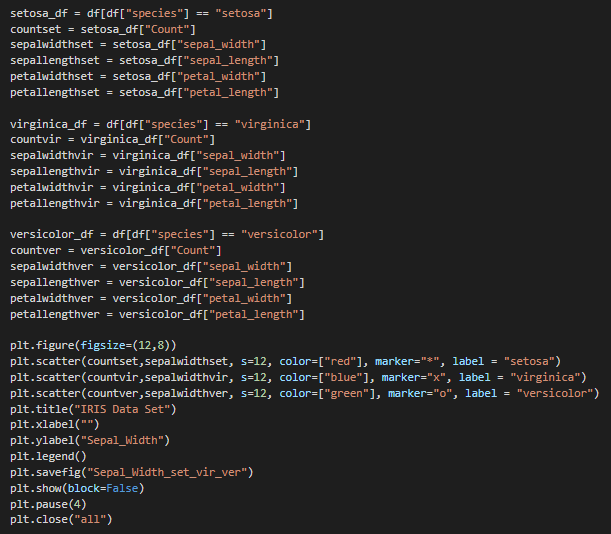
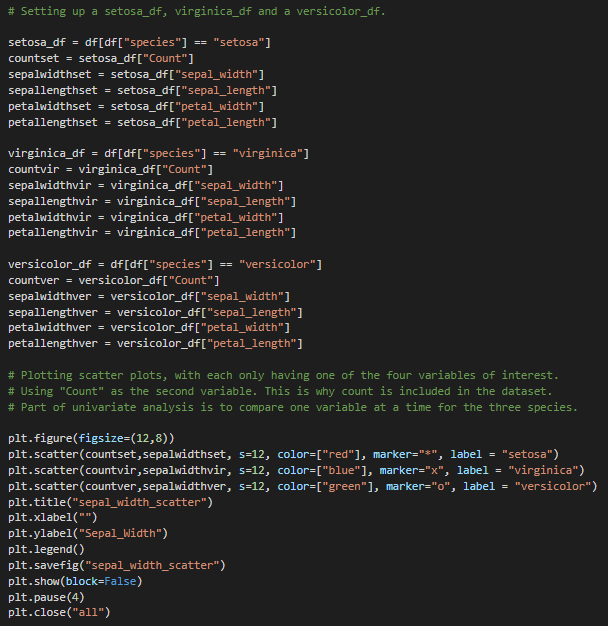
Editing README and tidying up analysis.py file

Changed region(s): [[0.0, 0.0, 1.0, 0.9888]]

diff --git a/analysis.py b/analysis.py
@@ -1,47 +1,87 @@
-import pandas as pd
-import matplotlib.pyplot as plt
-import seaborn as sns
-from scipy import stats
+#import libraries, keeping all together at the top of the code
+import pandas as pd # read CSV file
+import matplotlib.pyplot as plt # for plots
+import seaborn as sns # for pair plots
+from scipy import stats # for normality check
 
+# read in data from file and set up as dataframe
 df = pd.read_csv("Fishers IRIS Data Set.csv")
 
+# defining variables
 sepalwidth = df["sepal_width"]
 sepallength = df["sepal_length"]
 petalwidth = df["petal_width"]
 petallength = df["petal_length"]
 species = df["species"] 
 
-print("IRIS Data Set:")
-print(df.loc[:, df.columns != 'Count'])
-print("")
-print("The number of each species is: ")
-print(df["species"].value_counts())
-print("")
+#=============================================  data check  ==============================================
 
-shapiro_test_sepal_width = (stats.shapiro(sepalwidth))
+# check the dataset to ensure there are 5 variables and 150 rows of data
+print("IRIS Data Set:")
+print("")
+print(df.loc[:, df.columns != 'Count']) # Count is included in the data set for single variable scatter
+# plots. Single variable scatter plots are plotted in univariate analysis, want to ignore "Count" for now.
+print("""
+==========================================================================================================
+""") # The line of === is to make the output easier to read.
+
+print("The number of each species is: ")
+print(df["species"].value_counts()) # counting the number of each species, should be 50 of each.
+# ignoring "Count" as explained above. 
+print("""
+==========================================================================================================
+""")
+
+#===========================================  data summary  ==============================================
+
+# to output a summary of each variable to a single txt file. As explained previously there is a "Count"
+# column in  the data set which has to be ignored here. The method here was to set up a second 
+# dataframe (df2) and only include the columns of interest from the original dataframe (df).
+
+df2 = df[["sepal_width", "sepal_length", "petal_length", "petal_width", "species"]]
+summary = df2.describe() # provides a summary of the data
+print("A summary of the data by variable is provided:")
+print("")
+print(summary)
+with open("summary_of_variables.txt", "w") as f:
+    f.write(summary.to_string()) # convert to string to write to text file.
+
+#==========================  checking if data follows a normal distribution  ==========================
+
+shapiro_test_sepal_width = (stats.shapiro(sepalwidth)) # defining the variables for the Shapiro-Wilk test.
 shapiro_test_sepal_length = (stats.shapiro(sepallength))
 shapiro_test_petal_width = (stats.shapiro(petalwidth))
 shapiro_test_petal_length = (stats.shapiro(petallength))
+#shapiro returns the test statistic and the p-value, only interested in the p-value and it's located 
+#at the second poision in the list, position [1]. If the p-value is greater than 0.05 the data is normal.
 
 if (shapiro_test_sepal_width[1]) >= 0.05:
     print("Sepal Width is Normally Distributed")
 else:
     print("Sepal Width is not Normally Distributed")
-
+print("""
+""") # Making it easier to read in the output terminal
 if (shapiro_test_sepal_length[1]) >= 0.05:
     print("Sepal Lenght is Normally Distributed")
 else:
     print("Sepal Lenght is not Normally Distributed")
-
+print("""
+""")
 if (shapiro_test_petal_width[1]) >= 0.05:
     print("Petal Width is Normally Distributed")
 else:
     print("Petal Width is not Normally Distributed")
-
+print("""
+""")
 if (shapiro_test_petal_length[1]) >= 0.05:
     print("Petal Length is Normally Distributed")
 else:
     print("Petal Length is not Normally Distributed")
+print("""
+==========================================================================================================
+""")
+
+#================  histograms as part of univariate analysis  ================
 
 plt.figure(figsize=(12,8))
 plt.hist(sepalwidth, bins = 20, rwidth = 0.9)
@@ -83,6 +123,8 @@ plt.show(block=False)
 plt.pause(4)
 plt.close("all")
 
+#================  boxplots as part of univariate analysis  ================
+
 plt.figure(figsize=(12,8))
 sns.set(style="whitegrid")
 ax = sns.boxplot(x=species, y = sepalwidth)
@@ -116,6 +158,10 @@ plt.show(block=False)
 plt.pause(4)
 plt.close("all")
 
+#================  single variable scatter plots as part of univariate analysis  ================
+
+# Setting up a setosa_df, virginica_df and a versicolor_df.
+
 setosa_df = df[df["species"] == "setosa"]
 countset = setosa_df["Count"]
 sepalwidthset = setosa_df["sepal_width"]
@@ -136,6 +182,10 @@ sepalwidthver = versicolor_df["sepal_width"]
 sepallengthver = versicolor_df["sepal_length"]
 petalwidthver = versicolor_df["petal_width"]
 petallengthver = versicolor_df["petal_length"]
+
+# Plotting scatter plots, with each only having one of the four variables of interest.
+# Using "Count" as the second variable. This is why count is included in the dataset.
+# Part of univariate analysis is to compare one variable at a time for the three species.
 
 plt.figure(figsize=(12,8))
 plt.scatter(countset,sepalwidthset, s=12, color=["red"], marker="*", label = "setosa")
@@ -189,6 +239,8 @@ plt.show(block=False)
 plt.pause(4)
 plt.close("all")
 plt.figure(figsize=(12,8))
+
+#================  scatter plots as part of multivariate analysis  ================
 
 plt.figure(figsize=(12,8))
 plt.scatter(sepalwidthset,sepallengthset, s=12, color=["red"], marker="*", label = "setosa")
@@ -346,7 +398,8 @@ plt.show(block=False)
 plt.pause(4)
 plt.close("all")
 
-df2 = df[["sepal_width", "sepal_length", "petal_length", "petal_width", "species"]]
+#================  Seaborn pairplot scatter plots as part of univariate analysis  ================
+
 sns.pairplot(df2, hue = "species")
 plt.savefig("pairplot")
 plt.show(block=False)

diff --git a/README.md b/README.md
@@ -44,126 +44,145 @@ To demonstrate LDA Fisher used data that was collected by the American botanist 
 ### Checking the Data Set
 Dataset obtained from https://gist.githubusercontent.com/curran/a08a1080b88344b0c8a7/raw/639388c2cbc2120a14dcf466e85730eb8be498bb/iris.csv
 
-The first step is to do some simple checks on the data and compare that with what we know. What we do know is that there are four measurements per sample, there are 50 of each of the three species so the first step is to run a simple script to check that the data set obtained is acceptable. The following code was executed.
+The first step is to do some simple checks on the data and compare that with what we know. There are four measurements per sample and 50 samples of each of the three species. The first step is to run a simple script to check that the data set obtained meet this criteria.
 
 |![](IRIS_data_in.PNG)|
 | :--: |
 | *Figure 2 input code* |
 
 
-Explaining the code
+*Explaining the code*
 
-Import pandas, then set up a dataframe from the .csv file. In this data set there is a column called "count"included. This column is required later when doing univariate analysis. However for this part of the analysis, this column is to be ignored. To understand how to ignore the column some research was required and the solution was found here: https://stackoverflow.com/questions/29763620/how-to-select-all-columns-except-one-column-in-pandas
+Import pandas, then set up a dataframe from the .csv file. In this data set there is a column called "count" included. This column is required later for univariate analysis. However for this part of the analysis, this column is to be ignored. To understand how to ignore the column some research was required and the solution was found here: https://stackoverflow.com/questions/29763620/how-to-select-all-columns-except-one-column-in-pandas
 
- The first section of the code will check that the correct columns are there and the number of rows and colums are as expected. The last section of code is to check  if there are 50 of each species as expected.
+ The first section of the code checks that the correct columns are there and the number of rows and columns are as expected. The last section of code is to check if there are 50 of each species as expected.
 
 | ![](IRIS_data_out.PNG)|
 | :--: |
 | *Figure 3 output* |
 
-With reference to Figure 3 the data set looks acceptable. It can be seen that there are 5 columns and 150 rows. There are also 50 of each species included in the data set.
+With reference to Figure 3 it can be seen that there are 5 columns and 150 rows. There are also 50 of each species included in the data set. The data set meest the criteria.
+
+### *Data summary*
+
+The next step is to output a summary of each variable to a single text file. The text file is named "summary_of_variables" and is saved in the same directory as the analyis.py file. See Figure 4 for the code to complete this part of the project. A second dataframe was set up to ignore the "Count" column. There is also a snip of the text file provided in Figure 5.
+
+| ![](summary_in.PNG)|
+| :--: |
+| *Figure 4 data summary code* |
+
+| ![](summary_out.PNG)|
+| :--: |
+| *Figure 5 data summary result* |
 
 ### Data Set Analysis
-The first step is checking if the data follows a normal distribution. This test was compete using the Shapiro-Wilk normality test  considered the most powerful test when testing for a normal distribution https://towardsdatascience.com/6-ways-to-test-for-a-normal-distribution-which-one-to-use-9dcf47d8fa93.
+The first step is checking if the data follows a normal distribution. This test was compete using the Shapiro-Wilk normality test  considered the most powerful test when testing for a normal distribution.
 
-Refer to Figure 4 for the code used to check normality.
+https://towardsdatascience.com/6-ways-to-test-for-a-normal-distribution-which-one-to-use-9dcf47d8fa93.
+
+Refer to Figure 6 for the code used to check normality.
 
 | ![](Normality_test_in.PNG)|
 | :--: |
-| *Figure 4 normality test in* |
+| *Figure 6 normality test in* |
 
 
-Refer to Figure 5 for the result of the normality test.
+Refer to Figure 7 for the result of the normality test.
 | ![](Normality_test_out.PNG)|
 | :--: |
-| *Figure 5 normality test results* |
+| *Figure 7 normality test results* |
 
-With reference to Figure 5 it can be seen that Sepal Width is the only variable that follows a normal distribution.
+With reference to Figure 7 it can be seen that Sepal Width is the only variable that follows a normal distribution.
 
 ### Individual Variable (Univariate) Analysis
 
-Having assessed the data for normality, the next step in the analysis is to look at univariate analysis. For this analysis a histogram, boxplot and a single variable scatter plot for each of the four variables (petal length, petal width, sepal length and sepal with) will be provided.
+Having assessed the data for normality, the next step in the analysis is to look at univariate analysis. For this analysis a histogram, boxplot and a single variable scatter plot for each of the four variables (petal length, petal width, sepal length and sepal with) is provided. Refer to Figure 8 for the code used to plot the histograms.
 
-Refer to Figure 6 for the code used to plot the histograms.
+*Important to note that the same code is repeated for the four variables, therefor only the code for the first plot is included here. This trend is applied throughout this README.*
+
 | ![](Histogram_in.PNG)|
 | :--: |
-| *Figure 6 histogram code* |
+| *Figure 8 histogram code* |
 
-The code in Figure 6 saves the files in the same folder as the analysis.py file. Figure 7 is included in this README for reference where all histograms are included in a single PNG file. A point of interest here is that through the Shapiro-Wilk normality test previously, Sepal Width was the only variable which followed a normal distribution. With reference to Figure 7 Sepal width histogram also looks the most "normal".
+The code in Figure 8 saves the files in the same folder as the analysis.py file. Figure 9 is included for reference where all histograms are included in a single .png file. A point of interest here is that through the Shapiro-Wilk normality test previously, Sepal Width was the only variable which followed a normal distribution. With reference to Figure 9 Sepal width histogram also looks the most "normal".
 
 | ![](Multi_Hist.png)|
 | :--: |
-| *Figure 7 histograms for all individual variables* |
+| *Figure 9 histograms for all individual variables* |
 
-The next univariate plot is the boxplot, refer to Figure 8 for the code used to plot the boxplots.
+The next univariate plot is the boxplot, refer to Figure 10 for the code used to plot the boxplots.
 | ![](Boxplot_in.PNG)|
 | :--: |
-| *Figure 8 boxplot code* |
+| *Figure 10 boxplot code* |
 
-The code in Figure 8 saves the files in the same folder as the analysis.py file. Figure 9 is included in this README for reference where all boxplots are included in a single PNG file.
+The code in Figure 10 saves the files in the same folder as the analysis.py file. Figure 11 is included in this README for reference where all boxplots are included in a single PNG file.
 
 | ![](Multi_Box.png)|
 | :--: |
-| *Figure 9 boxplots for all individual variables* |
+| *Figure 11 boxplots for all individual variables* |
 
-What's interesting in Figure 9 is that looking at sepal width and sepal length it would be difficult to seperate the 3 species as there is lot of overlap however with reference to petal wdth and petal length it can be clearly seen that the setosa has a smaller petal in both the lenght and width dimensions.
+What's interesting in Figure 11 is that looking at sepal width and sepal length it would be difficult to seperate the three species as there is lot of overlap. However with reference to petal wdth and petal length it can be clearly seen that the setosa has a smaller petal in both the lenght and width dimensions.
 
-The next univariate plot is a scatter plot, refer to Figure 10 for the code used to plot the scatter plots. It may seem counter intuitive that only one variable of interest is being plotted on the scatter plot as they are typically used to understand relationships between two variables. However as an excercise it has been decided to include a column in the data set called count and use this as a second variable to plot the variable of interest against (two variables are required to plot a scatter plot, one on the x-axis and one on the y-axis, for this exercise count is used on the x-axis). 
+The next univariate plot is a scatter plot, refer to Figure 12 for the code used to plot the scatter plots. It may seem counter intuitive that only one variable of interest is being plotted on the scatter plot as they are typically used to understand relationships between two variables. However as an excercise it has been decided to include a column in the data set called "Count" and use this as a second variable to plot the variable of interest against (two variables are required to plot a scatter plot, one on the x-axis and one on the y-axis, for this exercise "Count" is used on the x-axis).
 
-Another important point is that to do this the three species had to be individually defined, this can be seen in the first part of the code in Figure 10. The thought process here was to seperate each into their own dataframe, then define the four variables of each species. 
+Another important point is that to do this the three species had to be individually defined, this can be seen in the first part of the code in Figure 12. The thought process here was to seperate each into their own dataframe, then define the four variables of each species. 
 
-In the boxplot code from Figure 8 it was possible to seperate the species by plotting the species on the x-axis, later in this README "hue" is used to seperate the species. It's interesting to research different methods to seperate the species into their individual groups for analysis. One thing about programming that has become apparent is there are always many ways to solve every problem. 
+In the boxplot code from Figure 10 it was possible to seperate the species by plotting the species on the x-axis, later in this README "hue" is used as part of the Seaborn pairplot to seperate the species. It's interesting to research different methods to seperate the species into their individual groups for analysis. One thing about programming that has become apparent is there are always many ways to solve every problem.
+
 | ![](Single_Scatter_in.PNG)|
 | :--: |
-| *Figure 10 scatter plot code with one variable of interest* |
+| *Figure 12 scatter plot code with one variable of interest* |
 
-The code in Figure 10 is only for sepal width, and is for reference. In the analysis.py file this code is repeated for all variables. Refer to Figure 11 for the output.
+The code in Figure 12 is only for sepal width, and is for reference. In the analysis.py file this code is repeated for all variables. Figure 13 includes all four boxplots in the same .png file.
+
 | ![](single_scatter_out.png)|
 | :--: |
-| *Figure 11 scatter plots showing one variable of interest for all variables* |
+| *Figure 13 scatter plots showing one variable of interest for all variables* |
 
-With reference to Figure 11 it's interesting to see that when looking at sepal width and sepal length it would be difficult to seperate the 3 species as there is lot of overlap, however with reference to petal wdth and petal length it can be clearly seen that the setosa has a smaller petal in both the lenght and width dimensions.
+With reference to Figure 13 it's interesting to see that when looking at sepal width and sepal length it would be difficult to seperate the three species as there is lot of overlap, however with reference to petal wdth and petal length it can be clearly seen that the setosa has a smaller petal in both the lenght and width dimensions.
 
-This is of no surprise as this was presented earlier with the boxplots, it's interesting to see the different ways of presenting data and telling the same story through different methods.
+This is of no surprise as this observation was also made when the boxplots were presented. It's interesting to see the different ways of presenting data and telling the same story through different methods.
 
 ### Multivariable Analysis
-Multivariate analysis is where more than one variable is considered for a single outcome. It is relevant in the analysis of the IRIS data set as there are four variables for each species. In the univariate analysis it was determined that it wasn't possible to seperate the three species. The best univariate analysis resulted in two clusters of data where setosa was seperated based on petal size. It was not possible to seperate virginica and versicolor. With multivariate analysis the objective is to determine if the cluster containing virginica and versicolor can be seperated by spoecies.
+Multivariate analysis is where more than one variable is considered for a single outcome. It is relevant in the analysis of the IRIS data set as there are four variables for each species. In the univariate analysis it was determined that it wasn't possible to seperate the three species. The best univariate analysis resulted in two clusters of data where setosa was seperated based on petal size. It was not possible to seperate virginica and versicolor. With multivariate analysis the objective is to determine if the cluster containing virginica and versicolor can be seperated by species.
 
-Using scatter plots two varibles are considered and plotted, the objective is to identify the different species of IRIS flower. As an learning excercise each of the pair of variables were plotted on a scatter plot and saved as individual .png files refer to Figure 12 for code.
+Using scatter plots two varibles are considered and plotted, the objective is to identify the different species of IRIS flower. As an learning excercise each of the pair of variables were plotted on a scatter plot and saved as individual .png files refer to Figure 14 for code.
 
-The Seaborn pairplot code was also executed which plots all possible pairs of variables on scatter plots, seperated by the species through the hue feature. refer to Figure 13 for Seaborn pairplot code. This section of code shows how efficient or unefficient a program can be. When programming unefficiently it took 12 lines of code per plot and 12 plots, a total of 144 lines of code, for the Seaborn pairplot 6 lines of code was all that was needed 4% of the original code. Refer to Figure 14 for Seaborn pairplot.
+The Seaborn pairplot code was also executed which plots all possible pairs of variables on scatter plots, seperated by the species through the hue feature. Refer to Figure 15 for Seaborn pairplot code. This section of code shows how efficient or unefficient a program can be. When programming unefficiently it took 12 lines of code per plot and 12 plots, a total of 144 lines of code, for the Seaborn pairplot 5 lines of code was all that was needed 3.4% of the original code. Refer to Figure 16 for Seaborn pairplot.
 
 | ![](scatter_in.PNG)|
 | :--: |
-| *Figure 12 scatter plot code (important to note that this code was repeated 12 times changing the pairs of variables each time)* |
+| *Figure 14 scatter plot code (important to note that this code was repeated 12 times changing the pairs of variables each time)* |
 
 | ![](pairplot_in.PNG)|
 | :--: |
-| *Figure 13 scatter plot code using Seaborn pairplot* |
+| *Figure 15 scatter plot code using Seaborn pairplot* |
 
 | ![](pairplot.png)|
 | :--: |
-| *Figure 14 Seaborn pairplot output* |
+| *Figure 16 Seaborn pairplot output* |
 
-With reference to Figure 14 the advantage of multivariate analysis is highlighted. The obvious observation which we have already proven through univariate analysis is the two clusters of data. One cluster being the setosa, easily seperable based on petal size. The advantage with multivariate is that the second cluster of versicolor and virginica are much more seperable. There is some overlap between the species but much less than what was observed through univariate analysis. Consider Petal length vs petal width the three clusters can almost be seperated into setosa at bottom left, versiclor in the centre and virginica in the top right of the plot.
+With reference to Figure 16 the advantage of multivariate analysis is highlighted. The obvious observation which we have already proven through univariate analysis is the two clusters of data. One cluster being the setosa, easily seperable based on petal size. The advantage with multivariate is that the second cluster of versicolor and virginica are much more seperable. There is some overlap between the species but much less than what was observed through univariate analysis. Consider petal length *vs.* petal width the three clusters can almost be seperated into setosa at bottom left, versiclor in the centre and virginica in the top right of the plot.
 
 ### Linear Discriminant Analysis (LDA) - Discussion
-Having proven the advantage of multivariate analysis using two variables to seperate the species. Would it be an advantage if we could plot all four variables for each of the species. It would be ideal if we could plot all four variables, however it's impossible to draw a four dimensional graph. Could all four dimensions be represented on a two dimensioal graph? The answer is yes by using LDA.
+Having proven the advantage of multivariate analysis using two variables to seperate the species. Would it be an advantage if we could plot all four variables for each of the species. It would be ideal if we could plot all four variables, however it's not possible to draw a four dimensional graph. Could all four dimensions be represented on a two dimensioal graph? The answer is yes by using LDA.
 
 Linear Discriminant Analysis (LDA) is a technique used to reduce the number of dimensions. In the IRIS data set it's possible to reduce the four variables to two dimensions. The objective of LDA is to maximise the seperability between groups. LDA projects the data onto a new axis in a way to maximise the seperation of the groups. The new axis is created according to two criteria considered simultaneously. Firstly maximise the distance between the means, secondly minimise the variation within each group.
 
-Although LDA is not included in the code, it was researched as part of the project and so it was felt worthwhile to include the explanation above and also the result of running LDA through pyton, the result of which is presented in Figure 15.
+Although LDA is not included in the code, it was researched as part of the project and so it was felt worthwhile to include the explanation above and also the result of running LDA through pyton, the result of which is presented in Figure 17.
 
 | ![](LDA.PNG)|
 | :--: |
-| *Figure 15 linear discriminant analysis* |
+| *Figure 17 linear discriminant analysis* |
 
-With reference to Figure 15 it can be seen that through LDA reduced the four variables down to two dimensions; Function 1 and Function 2. Through LDA the species have better seperation than when two variables were considered earlier. It's interesting to note also that when through cross validation there were only 3 misclassifications between versicolor and virginica. 
+With reference to Figure 17 it can be seen that through LDA reduced the four variables down to two dimensions; Function 1 and Function 2. Through LDA the species have better seperation than when two variables were considered earlier. It's interesting to note also that when through cross validation there were only 3 misclassifications between versicolor and virginica.
 
 https://rpubs.com/pranaugi011089/98288
 
 ## Summary
-The Iris data set was researched. Some analysis was carried out to ensure the data set was correct. This analysis included checking that the five variables and 150 rows were in the dataset. As part of the initial analysis it was also confirmed that 50 of each species was available and each variable analysed to check if they followed a normal distribution (Shapiro-Wilk).
+The Iris data set was researched. Some analysis was carried out to ensure the data set was correct. This analysis included checking that the five variables and 150 rows were in the dataset. As part of the initial analysis it was also confirmed that 50 of each species was available and each variable analysed to check if they followed a normal distribution (Shapiro-Wilk). To finish off the initial analysis there an output a summary of each variable was saved to a single text file. This summary included count, mean, std dev and some quartile information.
+
+A column called "Count" was included in the dataset, this was included as some single variable (of interest) scatter plots were required as part of the univariate analysis. Including count proved to be more challenging as when doing the initial analysis count had to be ignored, this took time to research and understand. Then later in the analysis there was arequirement to send a summary of the data to a text file. To overcome this issue a second dataframe was set up called df2 where the count column was not pulled into the second data frame. At the end of the programme the Seaborn pairplot was included, using the original datarame count was included which was not required. By using df2 the pairplot worked perfectly. Loads of learning around dataframes and how to manipulate them was achieved here.  
 
 Next some univariate analysis was conducted, this included analysis using histograms, boxplots, and single variable scatter plots. From the univariate analysis it was possible to seperate the data into two clusters. It wasn't possible to seperate versicolor and virginica with any degree of confidence.
 
